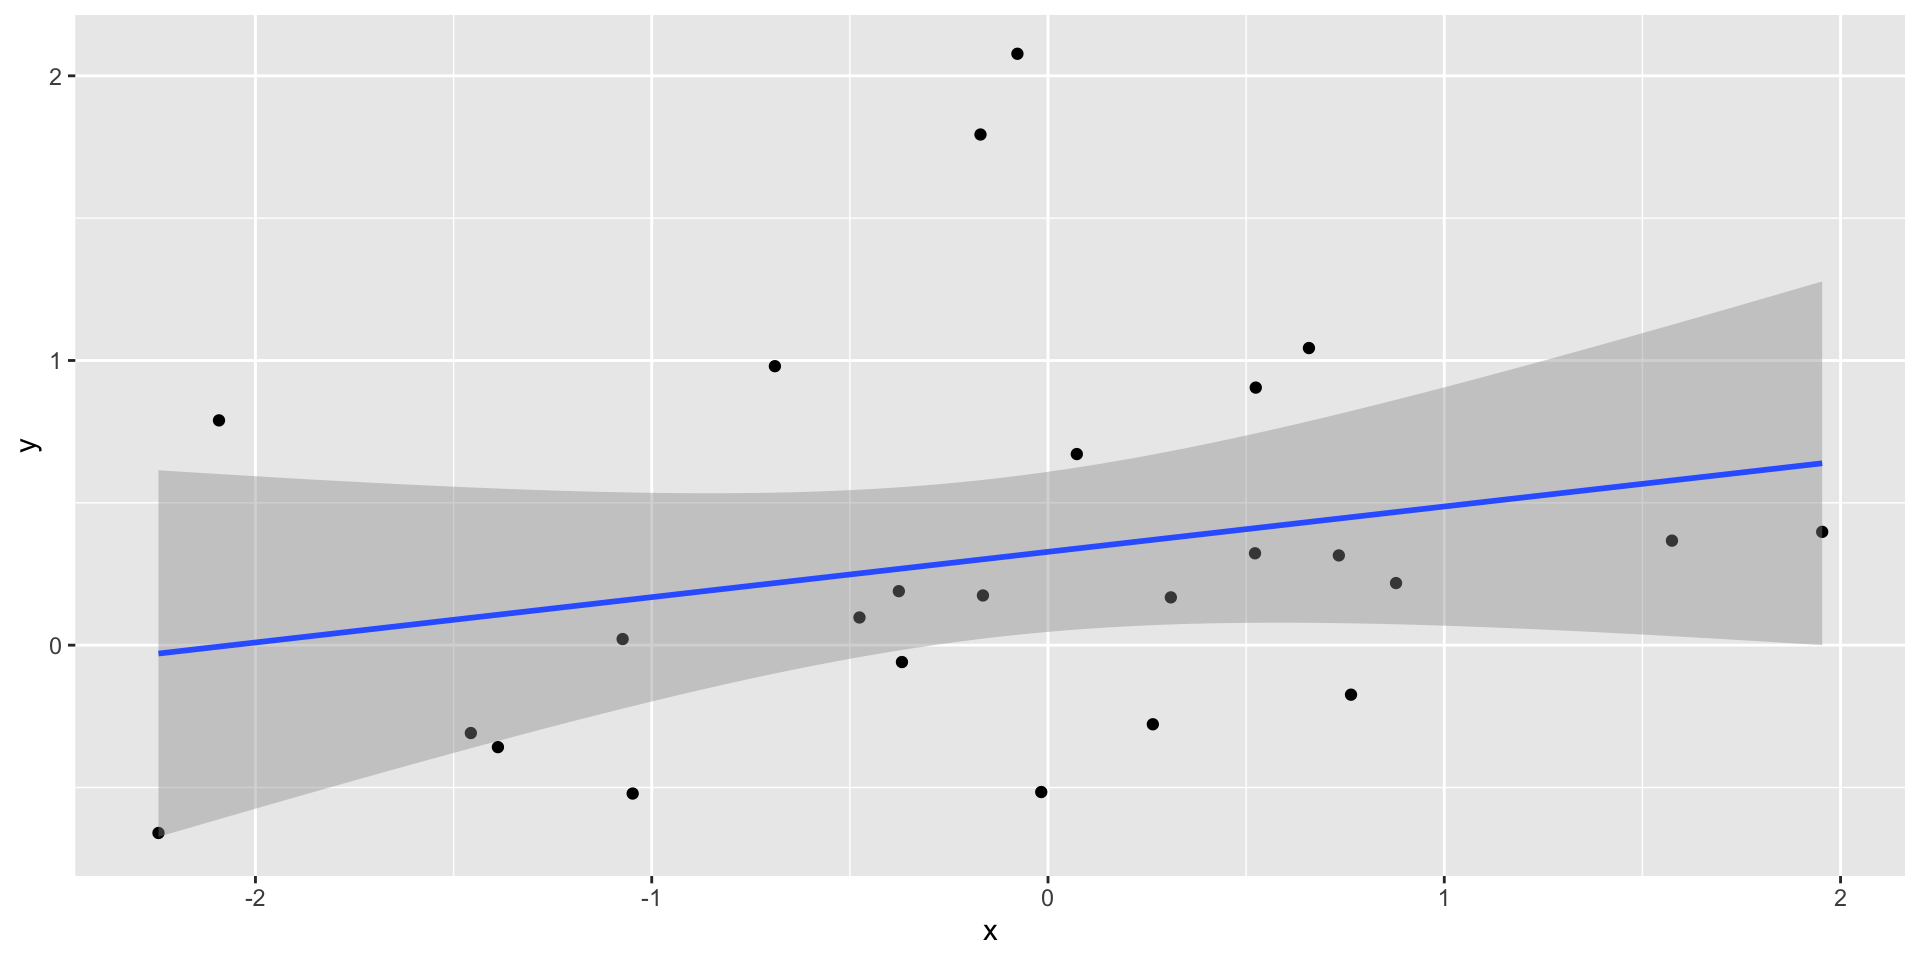
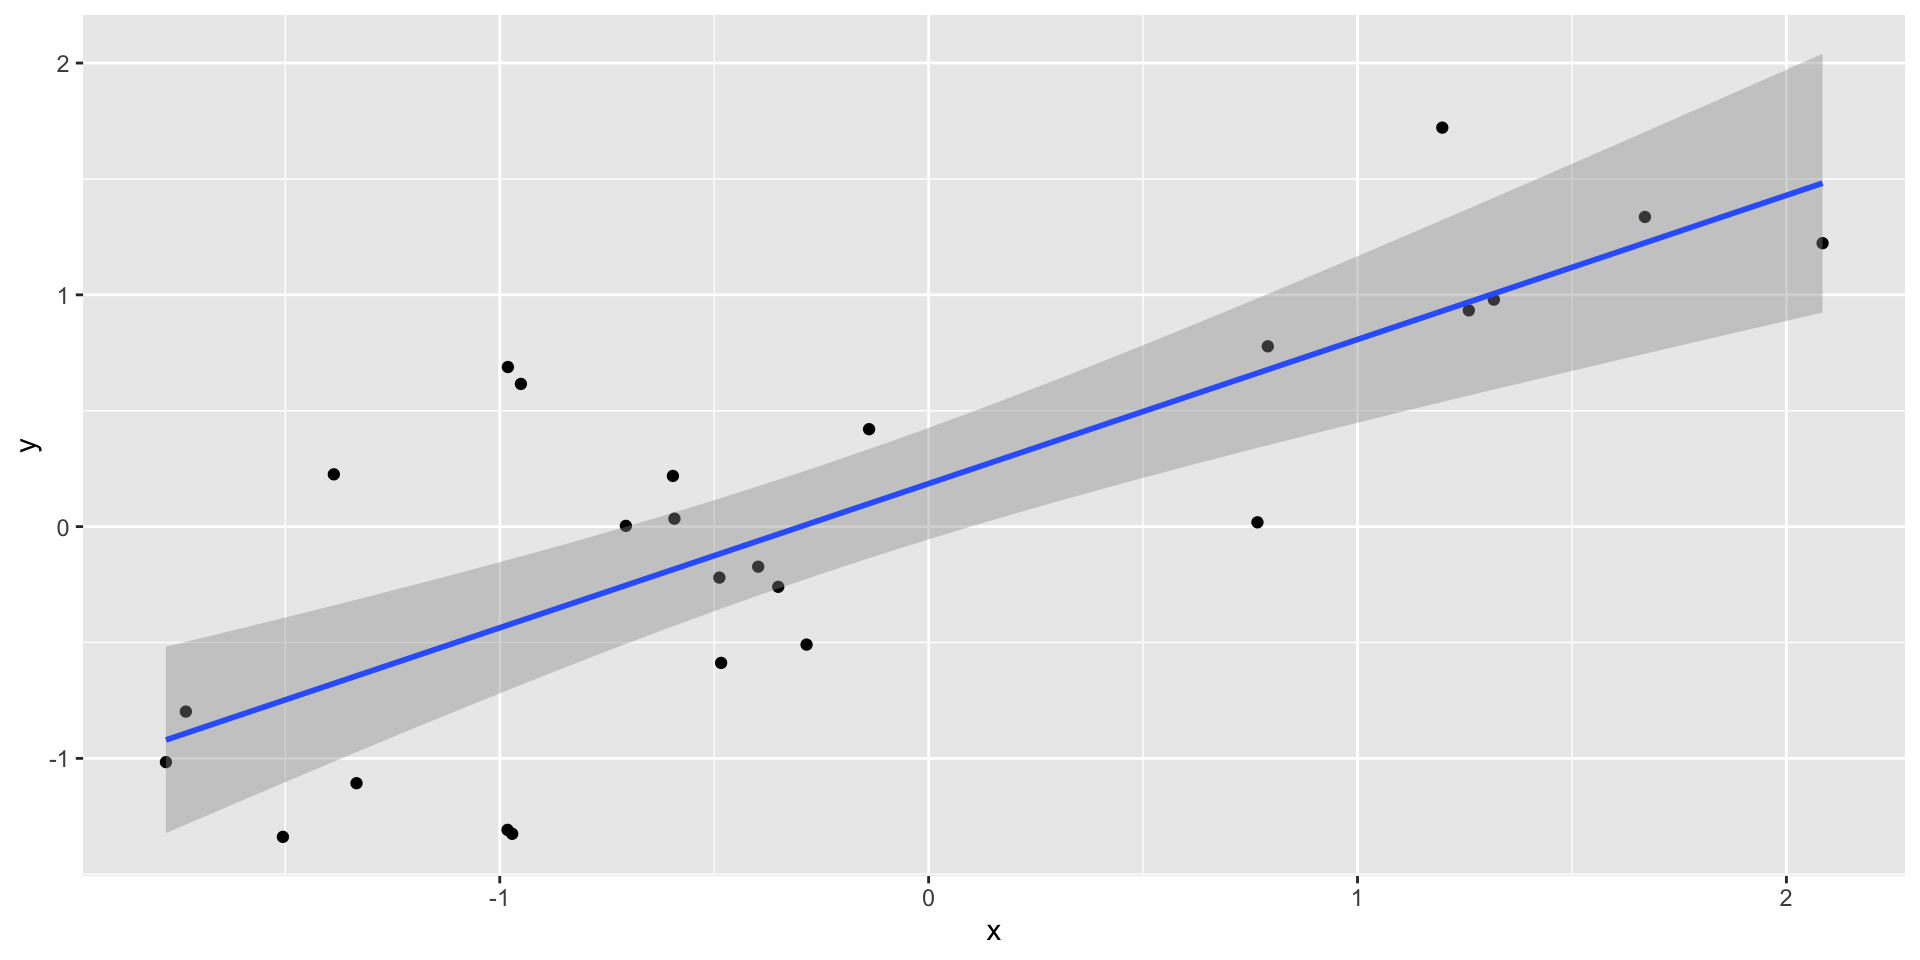
Fixing todays lecture and adding shiny example

diff --git a/docs/slides/other-topics/45-association-not-causation.html b/docs/slides/other-topics/45-association-not-causation.html
@@ -450,21 +450,21 @@
 <pre><code># A tibble: 1,000,000 × 2
     group     r
     &lt;int&gt; &lt;dbl&gt;
- 1 256086 0.810
- 2 421439 0.778
- 3 798292 0.757
- 4 821335 0.754
- 5 714565 0.752
- 6 247410 0.747
- 7 516166 0.744
- 8 357158 0.740
- 9 279383 0.739
-10 595854 0.735
+ 1 508834 0.779
+ 2 187260 0.773
+ 3 788683 0.768
+ 4 919009 0.765
+ 5 284126 0.760
+ 6 375763 0.760
+ 7 767885 0.753
+ 8 605587 0.747
+ 9 959725 0.745
+10 351369 0.742
 # ℹ 999,990 more rows</code></pre>
 </div>
 </div>
 <ul>
-<li>We see a maximum correlation of 0.81.</li>
+<li>We see a maximum correlation of 0.779.</li>
 </ul>
 </section>
 <section id="spurious-correlation-4" class="slide level2">
@@ -503,9 +503,9 @@
 <span id="cb5-5"><a></a>  <span class="fu">filter</span>(term <span class="sc">==</span> <span class="st">"x"</span>) </span></code><button title="Copy to Clipboard" class="code-copy-button"><i class="bi"></i></button></pre></div>
 <div class="cell-output cell-output-stdout">
 <pre><code># A tibble: 1 × 5
-  term  estimate std.error statistic p.value
-  &lt;chr&gt;    &lt;dbl&gt;     &lt;dbl&gt;     &lt;dbl&gt;   &lt;dbl&gt;
-1 x        0.159     0.133      1.20   0.244</code></pre>
+  term  estimate std.error statistic    p.value
+  &lt;chr&gt;    &lt;dbl&gt;     &lt;dbl&gt;     &lt;dbl&gt;      &lt;dbl&gt;
+1 x        0.622     0.104      5.96 0.00000449</code></pre>
 </div>
 </div>
 </section>
